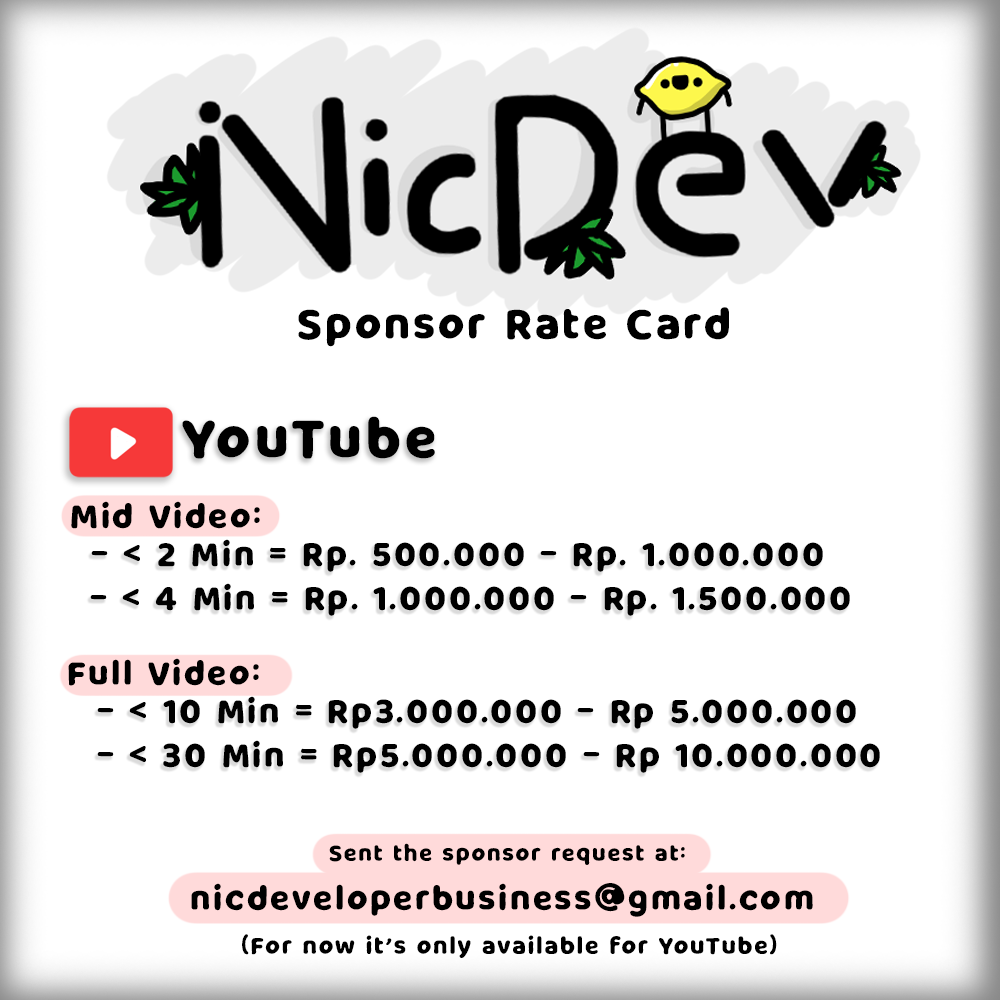
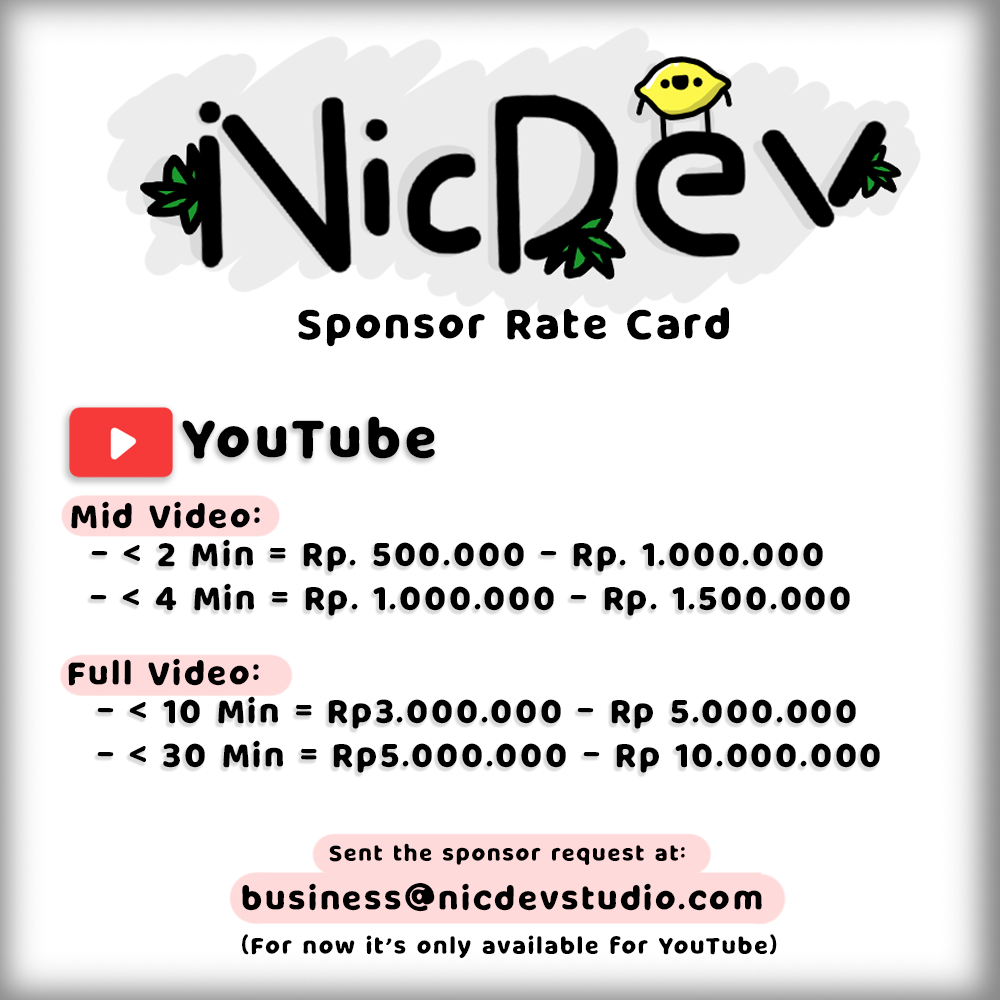
New email
New email

Changed region(s): [[0.155, 0.868, 0.868, 0.93]]

diff --git a/Links.html b/Links.html
@@ -156,7 +156,7 @@
 <p><InstagramColor><a id="InstagramColor" href="https://www.instagram.com/bukan_nic/">Instagram</a></InstagramColor></p>
 <p><DiscordColor><a id="DiscordColor" href="https://discord.gg/5yeDX7k">Discord</a></DiscordColor></p>
 <p><KaryakarsaColor><a id="MembershipColor" href="https://www.youtube.com/NicDev/join">Membership</a></KaryakarsaColor></p>
-<p><a id="EmailColor" href="mailto:nicdeveloperbusiness@gmail.com">E-mail</a><br> </p>
+<p><a id="EmailColor" href="mailto:business@nicdevstudio.com">E-mail</a><br> </p>
 <p><LinkNote>Please use the E-mail <u>only for important or business related things</u></LinkNote></p>
 <p><LinkNote>Do keep in mind that all of this links are Indonesian language</LinkNote></p>
 <p><h2>@2022 NicDev</h2></p>

diff --git a/Sponsor.html b/Sponsor.html
@@ -183,7 +183,7 @@
     <p><h1><a id="SponsorColor">Sponsor</h1></a></p>
     <div class="Explain">
       <p><h3>Want to sponsor your product with me?</h3></p>
-      <p><h3>Just sent the request to my </h3><a id="EmailColor" href="mailto:nicdeveloperbusiness@gmail.com">E-mail</a></p>
+      <p><h3>Just sent the request to my </h3><a id="EmailColor" href="mailto:business@nicdevstudio.com">E-mail</a></p>
       <p><img src="Images/RateCard.png" alt="Sponsor Rate Card"></p>
 <p><h2>@2022 NicDev</h2></p>
 </div>
